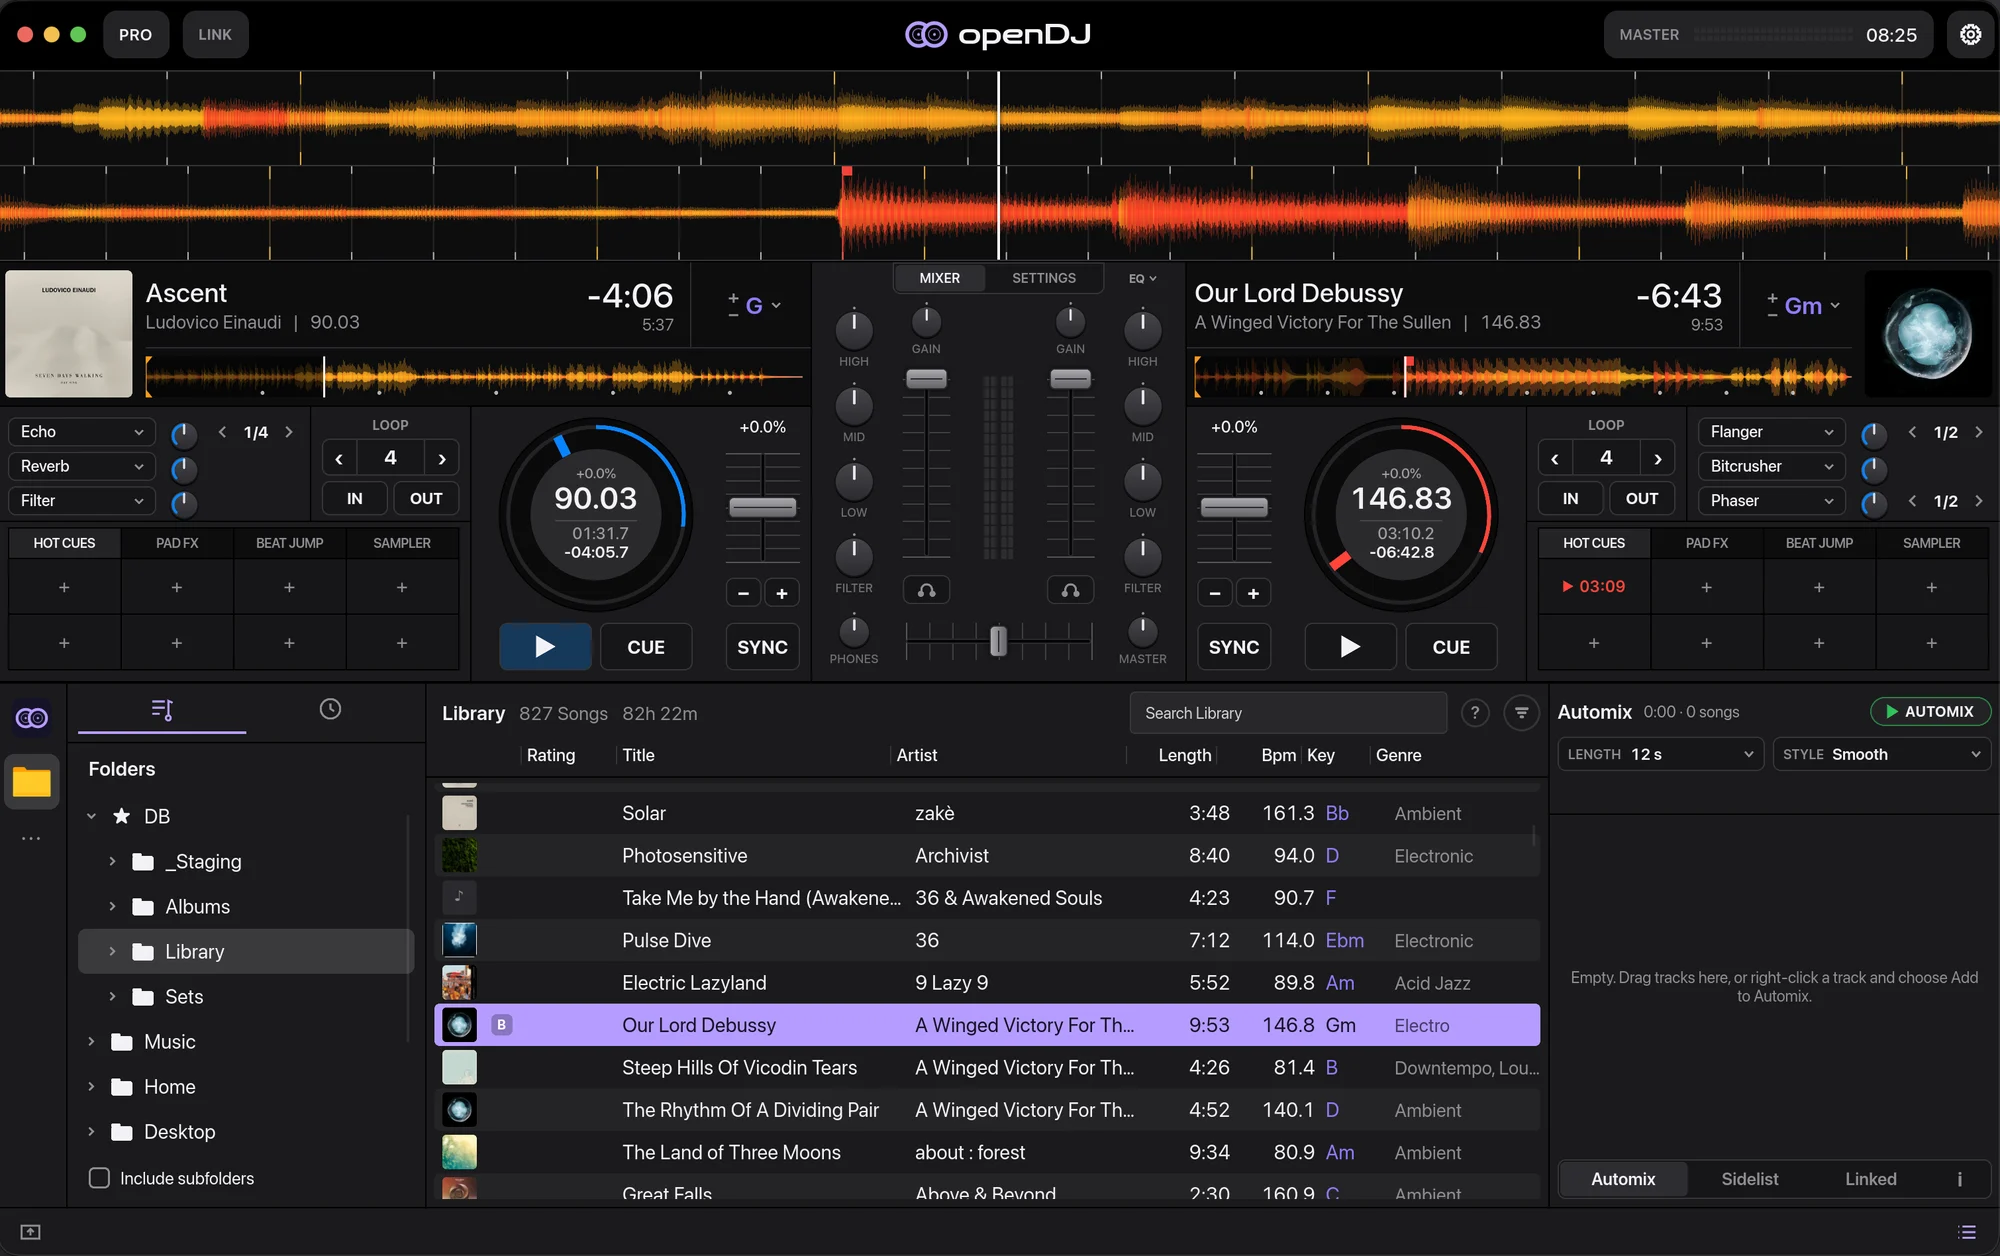
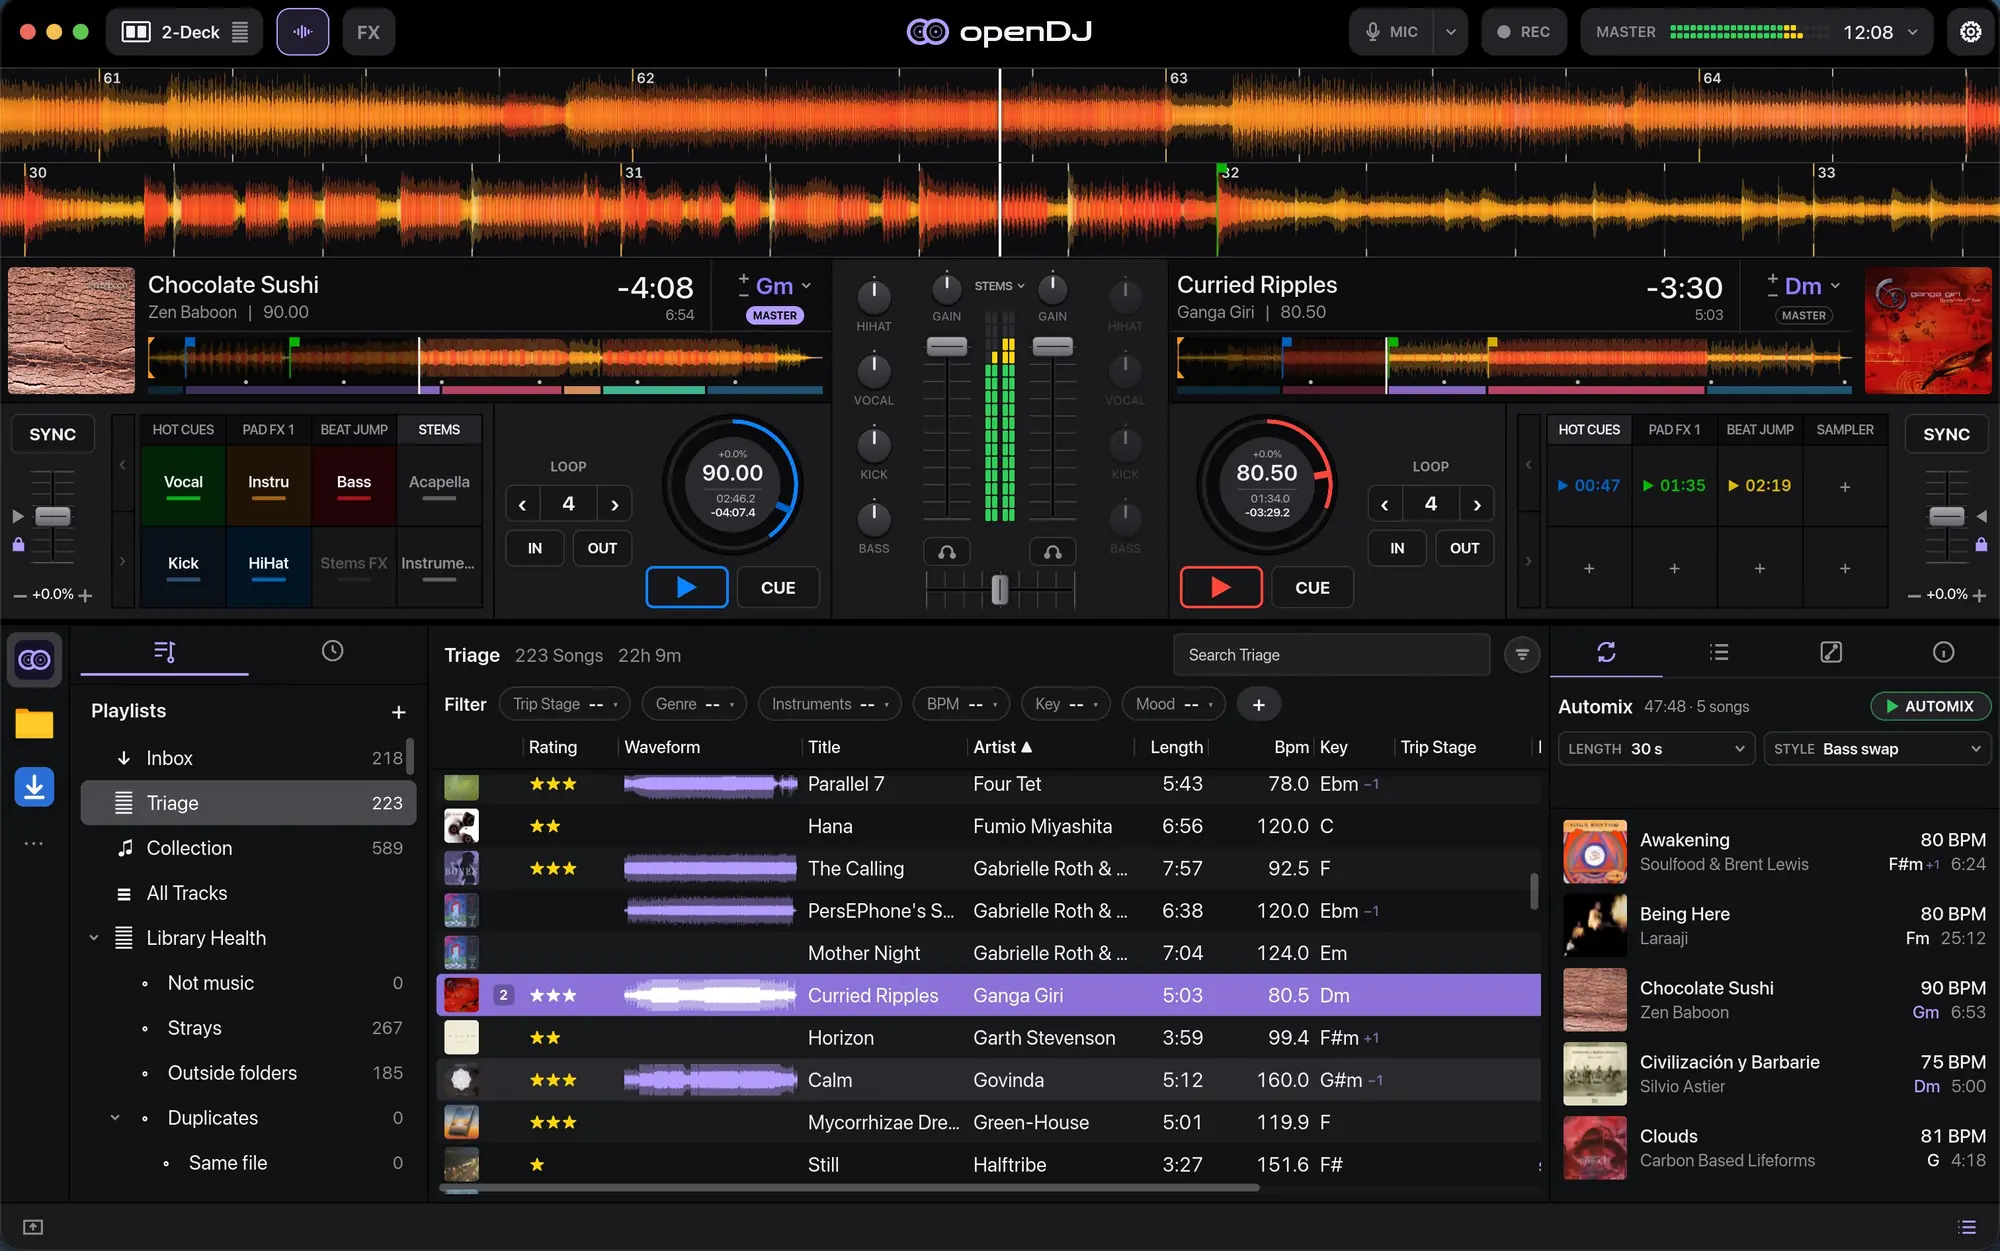
Use the v0.4 screenshot in the README and on the website (#130)
<!-- claude-projects-attribution: {"github_login":"sebastian-beca"} -->
_Requested by **Seba** · [project
thread](https://claude.ai/code/project/chan_01T4LB8QgqFWJhdUrMtuBXpQ?thread=cmsg_01T4LB8QgqFWJhdUrMtuBXpQCgZFS3u1uAvhFwD3bsiFiP)_

Replaces the main app screenshot with Seba's v0.4 shot (2-Deck with
stems pads, FX bar button, Triage list, Automix queue).

- `README.md`: `docs/screenshot.png` (1.5 MB PNG) →
`docs/screenshot.jpg` (2400×1502, 490 KB, EXIF stripped)
- `website/assets/screenshot.webp` (hero + og:image) and
`website/book/src/images/screenshot.webp` (docs home): new 2000×1251
WebP, 163 KB
- `website/index.html`: image height 1256 → 1251, alt text mentions the
Automix queue

Docs-only, so CI is skipped.

---
_Generated by [Claude
Code](https://claude.ai/code/session_01DjFrwME2U9S6aGQmnhHFoM)_

diff --git a/website/index.html b/website/index.html
@@ -57,7 +57,7 @@
     </div>
     <div class="wrap wrap-wide">
       <figure class="shot shot-hero">
-        <img src="assets/screenshot.webp" width="2000" height="1256" alt="openDJ with two tracks loaded: scrolling waveforms on top, two decks with a mixer between them, and the music library below.">
+        <img src="assets/screenshot.webp" width="2000" height="1251" alt="openDJ with two tracks loaded: scrolling waveforms on top, two decks with a mixer between them, and the music library with the Automix queue below.">
       </figure>
     </div>
   </section>

diff --git a/README.md b/README.md
@@ -6,7 +6,7 @@ openDJ is a free, open-source DJ app for macOS and Linux. It's built to be fast,
 pleasant to use, and to have a great automix, for DJs just starting out and for
 more experienced DJs alike.
 
-![openDJ](docs/screenshot.png)
+![openDJ](docs/screenshot.jpg)
 
 ## Features
 
